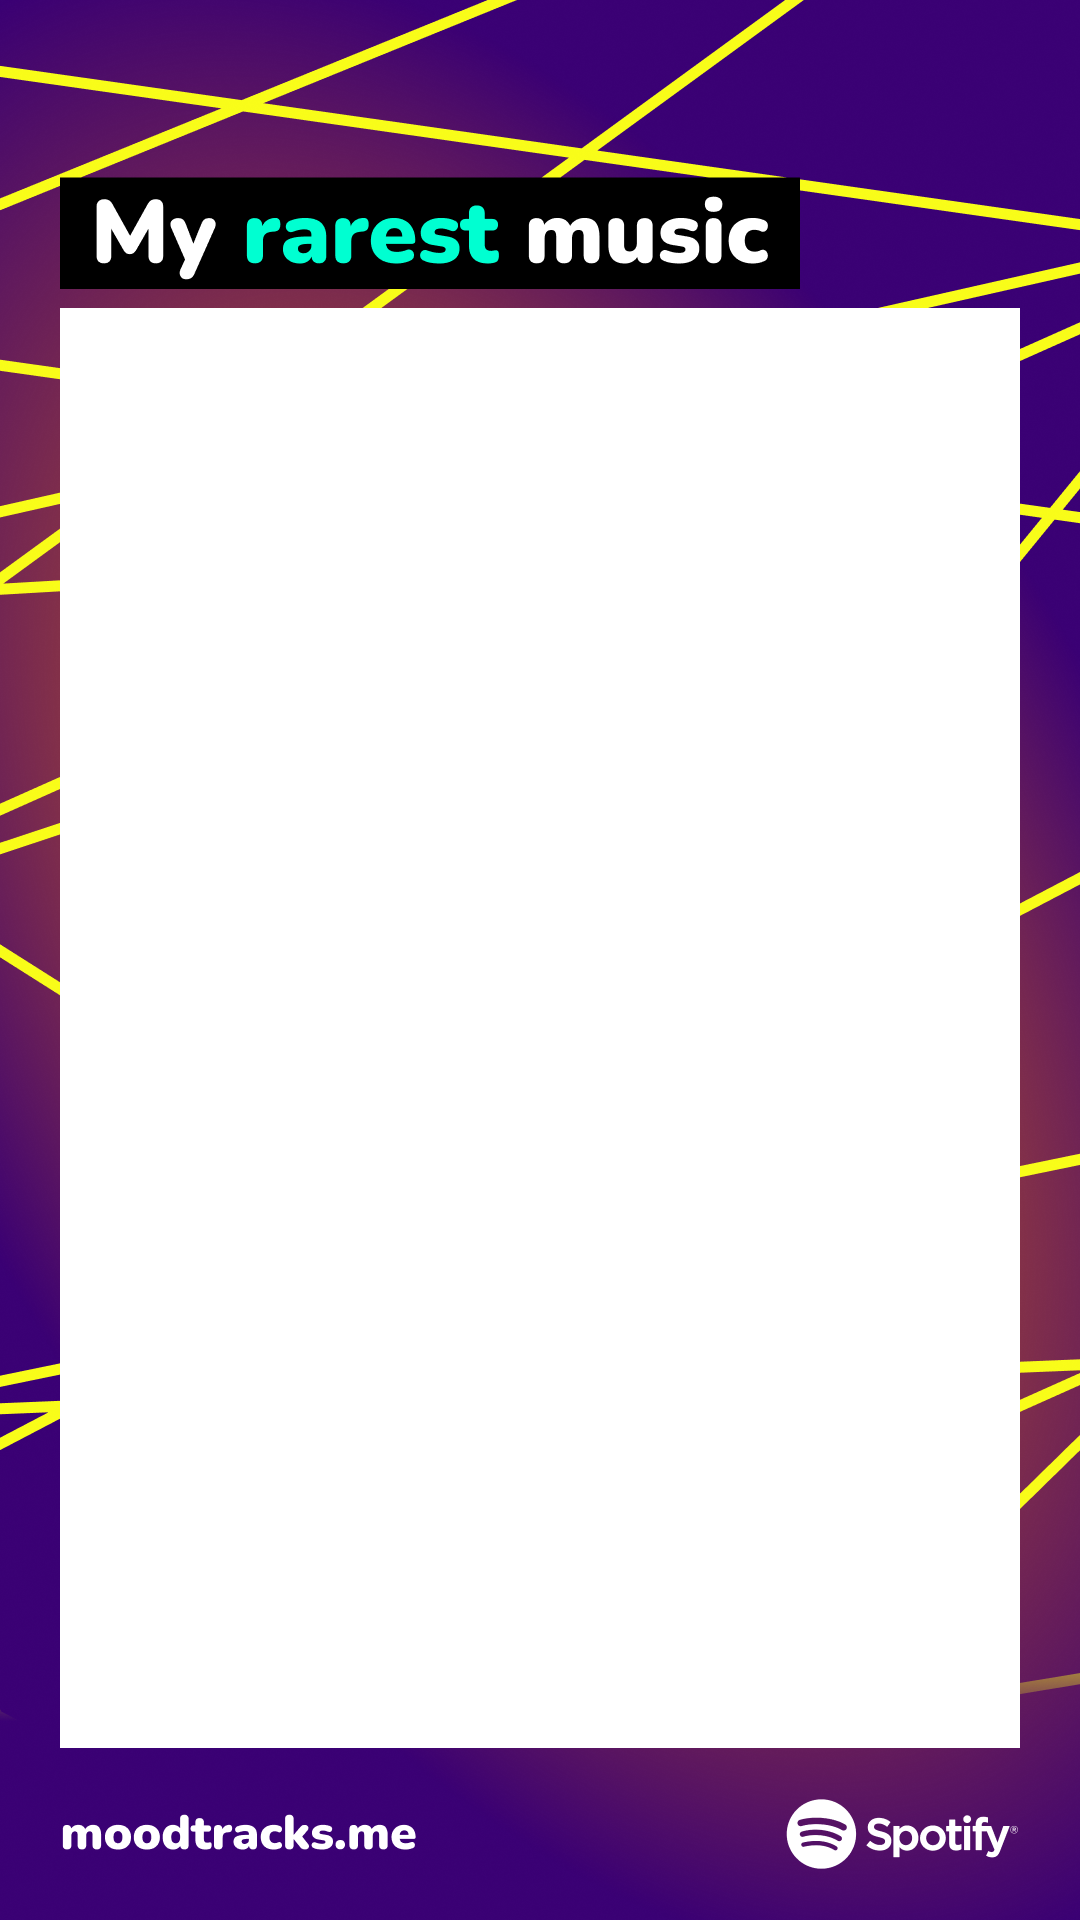
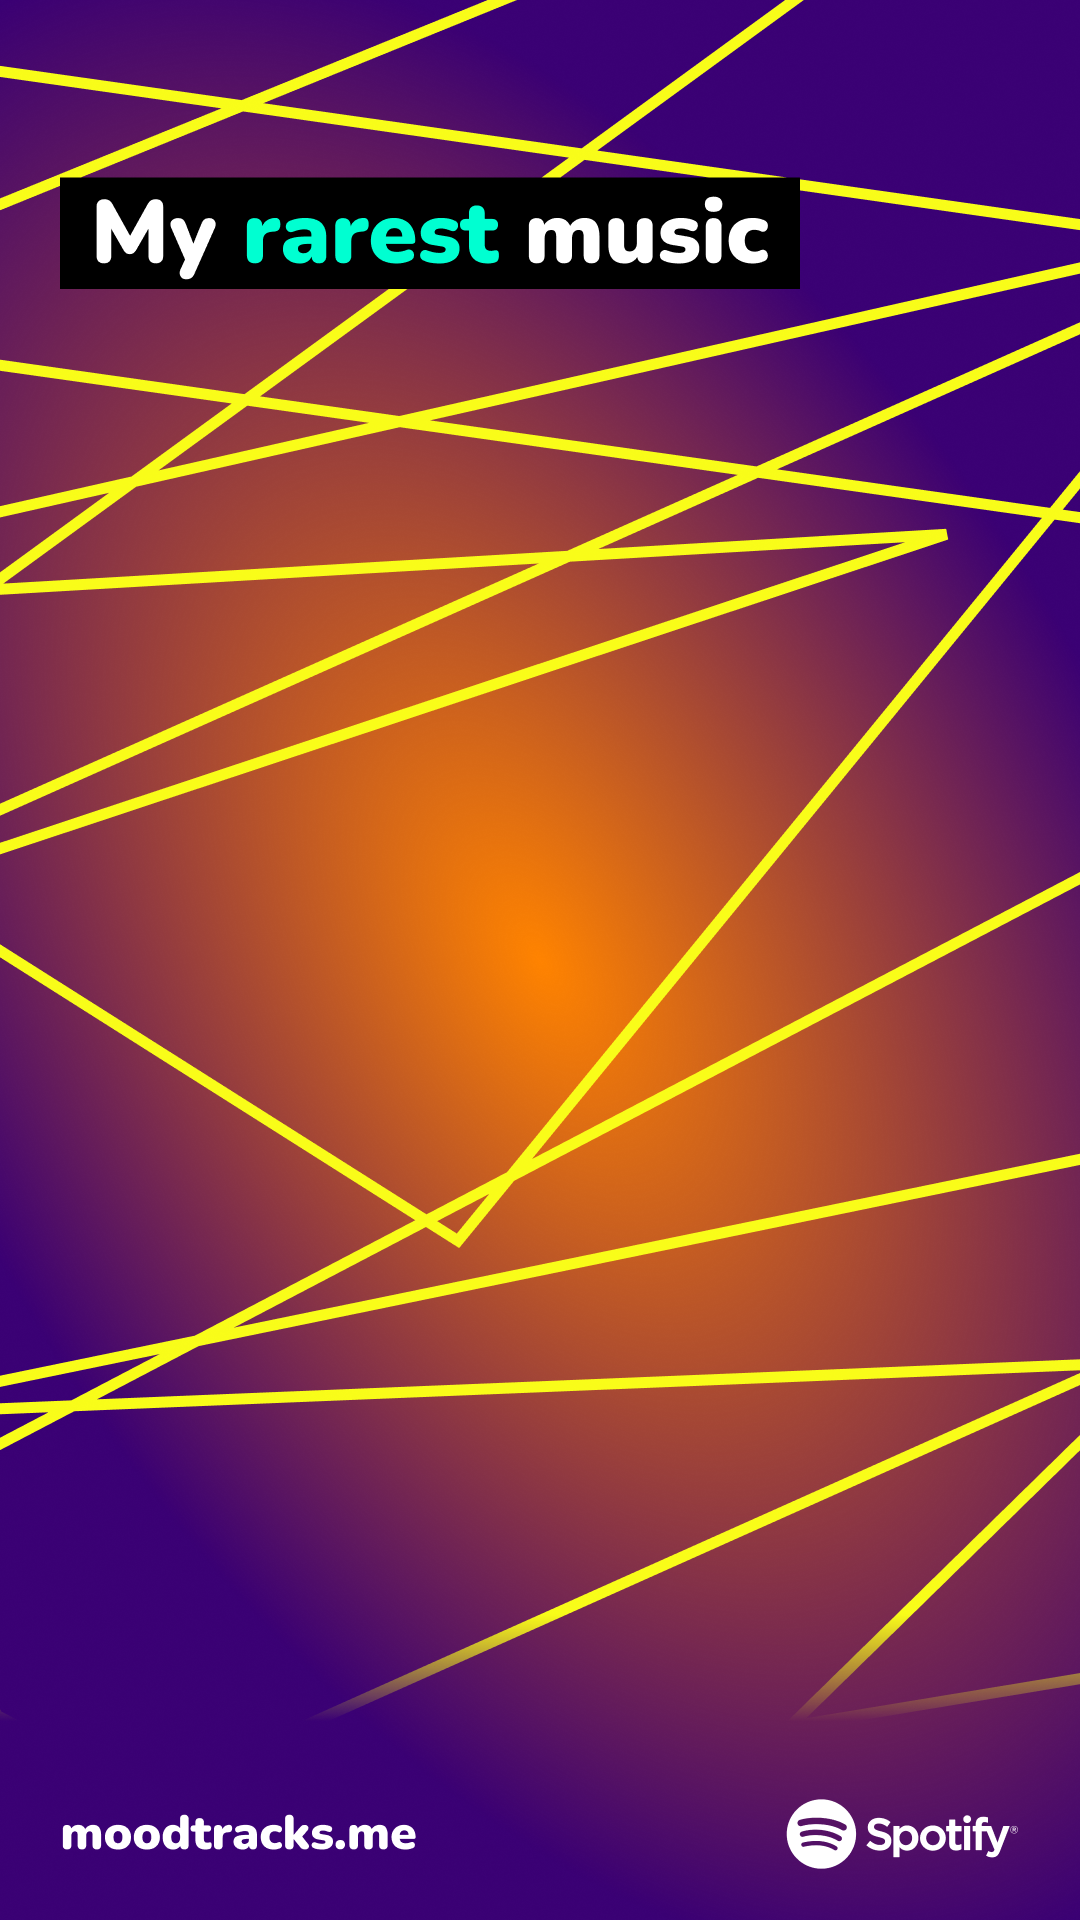
Added rough draft of moodtracks and rare tracks

diff --git a/scripts/script.js b/scripts/script.js
@@ -12,6 +12,11 @@ const urlParams = new URLSearchParams(window.location.search);
 let code = urlParams.get('code');
 
 
+var shortTermUserTracks;
+var mediumTermUserTracks;
+var longTermUserTracks;
+
+
 if (!code) {
     let codeVerifier = generateRandomString(128);
     generateCodeChallenge(codeVerifier).then(codeChallenge => {
@@ -65,13 +70,18 @@ else {
 
 
 
-    var shortTermUserTracks = await getUserTopTracks('short_term', trackLimit);
-    var mediumTermUserTracks = await getUserTopTracks('medium_term', trackLimit);
-    var longTermUserTracks = await getUserTopTracks('long_term', trackLimit);
+    shortTermUserTracks = await getUserTopTracks('short_term', trackLimit);
+    mediumTermUserTracks = await getUserTopTracks('medium_term', trackLimit);
+    longTermUserTracks = await getUserTopTracks('long_term', trackLimit);
 
-    populateTopTracks(shortTermUserTracks, "short");
-    //saveUserLibraryStartingFrom(0);
-    //console.log(fullUserTrackList);
+
+    await populateTopTracks(shortTermUserTracks, "short");
+    await populateMoodtracks(shortTermUserTracks);
+
+    var newArr = quickSort(await saveUserLibraryStartingFrom(0), 0, fullUserTrackList.length-1);
+
+    await populateRareTracks();
+    console.log(fullUserTrackList);
 }
 
 var shortTermButton = document.querySelector('#top-tracks-past-month-button');
@@ -156,7 +166,7 @@ async function getResponse(apiCall){
 async function saveUserLibraryStartingFrom(offset){
     var userLibrarySegment = await getResponse('https://api.spotify.com/v1/me/tracks?limit=50&offset='+offset);
 
-    for(var i = 0; i <= userLibrarySegment.items.length; i++){
+    for(var i = 0; i < userLibrarySegment.items.length; i++){
         fullUserTrackList.push(userLibrarySegment.items[i]);
     }
     console.log(userLibrarySegment.next);
@@ -206,14 +216,10 @@ async function populateTopTracks(userTopTrackData, timePeriod) {
         individualTrackData.appendChild(trackName);
         individualTrackData.appendChild(artistName);
 
-        trackList.appendChild(rankNumber)
+        trackList.appendChild(rankNumber);
         trackList.appendChild(individualTrackData);
     }
 }
-
-const largeArray = [
-    2,6,4,7
-];
 
 function quickSort(arr, first, last){
     if(first < last){
@@ -225,11 +231,11 @@ function quickSort(arr, first, last){
 
 function partition(arr, first, last){
     swap(arr, Math.floor(((last-first)/2) + first), last);
-    const pivotVal = arr[last];
+    const pivotVal = arr[last].track.popularity;
     var i = first-1;
 
     for(var j = first; j<last; j++){
-        if(arr[j] <= pivotVal){
+        if(arr[j].track.popularity <= pivotVal){
             i++;
             swap(arr, i, j);
         }
@@ -245,6 +251,122 @@ function swap(arr, i, j){
     arr[j] = tempVal;
 }
 
-console.log("Original Array:", largeArray);
-quickSort(largeArray, 0, largeArray.length-1);
-console.log("Sorted Array:", largeArray);
+
+async function populateRareTracks(){
+    var topThree = [];
+    var libraryIndex = 0;
+    var topThreeIndex = 0;
+
+    var img1 = document.getElementsByClassName("album-img1")[0];
+    var img2 = document.getElementsByClassName("album-img2")[0];
+    var img3 = document.getElementsByClassName("album-img3")[0];  
+
+    var track1 = document.getElementsByClassName("rare-track1")[0];
+    var track2 = document.getElementsByClassName("rare-track2")[0];
+    var track3 = document.getElementsByClassName("rare-track3")[0]; 
+
+    track1.innerHTML = "";
+    track2.innerHTML = ""; 
+    track3.innerHTML = "";
+
+    while(topThreeIndex < 3){
+        if(fullUserTrackList[libraryIndex].track.popularity > 0){
+            topThree.push(fullUserTrackList[libraryIndex]);
+            topThreeIndex++;
+        }
+        libraryIndex++;
+    }
+
+
+    for(var i = 0; i < topThree.length;i++){
+        var trackName = document.createElement("span");
+        var artistName = document.createElement("span");
+
+        artistName.classList.add("raretracks-artist");
+        trackName.classList.add("raretracks-track");
+
+
+        trackName.textContent = topThree[i].track.name;
+        artistName.textContent = topThree[i].track.artists[0].name;
+
+        if(i == 0){
+            track1.appendChild(trackName);
+            track1.appendChild(artistName);
+        }
+        if(i == 1){
+            track2.appendChild(trackName);
+            track2.appendChild(artistName);
+        }
+        if(i == 2){
+            track3.appendChild(trackName);
+            track3.appendChild(artistName);
+        }
+    }
+
+    img1.setAttribute("src", topThree[0].track.album.images[0].url);
+    img2.setAttribute("src", topThree[1].track.album.images[1].url);
+    img3.setAttribute("src", topThree[2].track.album.images[2].url);
+}
+
+async function populateMoodtracks(tracksToSort){
+    //traverse tracks to sort
+    //sort tracks based on their +valence
+    //sort tracks based on their -valence
+    //sort tracks based on their +energy
+
+
+    var happyGrid = document.getElementById("moodtracks-happy-grid");
+    var tenderGrid = document.getElementById("moodtracks-tender-grid");
+    var energeticGrid = document.getElementById("moodtracks-energetic-grid");
+
+    var moodtracksSectors = [happyGrid,tenderGrid,energeticGrid];
+
+    for(var i =0; i< 3; i++){
+        for(var j = 0; j<3;j++){
+            var trackNameSpan = document.createElement("span");
+            var artistNameSpan = document.createElement("span");
+            trackNameSpan.setAttribute("id", "moodtracks-artist");
+            artistNameSpan.setAttribute("id", "moodtracks-artist");
+
+            var trackInfoDiv = document.createElement("div");
+            var albumImg = document.createElement("img");
+            albumImg.classList.add("moodtracks-album-img");
+
+
+
+            var trackName = tracksToSort.items[j].name;
+            var artistName = tracksToSort.items[j].artists[0].name;
+            var albumURL = tracksToSort.items[j].album.images[0].url;
+
+            trackNameSpan.textContent = trackName;
+            artistNameSpan.textContent=artistName;
+            albumImg.setAttribute("src", albumURL);
+
+
+
+            trackInfoDiv.appendChild(trackNameSpan);
+            trackInfoDiv.appendChild(artistNameSpan);
+
+
+            if(i==1){
+                moodtracksSectors[i].appendChild(albumImg);
+                moodtracksSectors[i].appendChild(trackInfoDiv);
+            }
+            else{
+                moodtracksSectors[i].appendChild(trackInfoDiv);
+                moodtracksSectors[i].appendChild(albumImg);
+            }
+        }
+    }
+
+
+    //get and set artistName to a span with id moodtracks-artist
+    //get and set trackName to a span with id moodtracks-artist
+    //create a div called "trackInfo" append artistName and trackName
+    //create an img element wit class "moodtracks-album-img"
+    //create a new div called "trackRow" append trackInfo or img depending on i
+    
+
+    //append trackRow to respective div
+
+}

diff --git a/yourmoodtracks.html b/yourmoodtracks.html
@@ -21,11 +21,11 @@
 
     <link rel="stylesheet" href="styles/nav_styles.css">
     <link rel="stylesheet" href="styles/home_styles.css">
-    <link rel="stylesheet" href="styles/moodtracks_images.css">
+    <link rel="stylesheet" href="styles/moodtracks_cards.css">
     
     <link rel="preconnect" href="https://fonts.googleapis.com">
     <link rel="preconnect" href="https://fonts.gstatic.com" crossorigin>
-    <link href="https://fonts.googleapis.com/css2?family=Nunito:wght@900&display=swap" rel="stylesheet">
+    <link href="https://fonts.googleapis.com/css2?family=Nunito:ital,wght@0,800;0,900;1,700&display=swap" rel="stylesheet">
 </head>
 
 <body>
@@ -81,15 +81,47 @@
             <div class="downloadable-story">
                 <img src="/resources/img/raretracks-blanktemplate.png" alt="Background for story for top tracks">
                 <div class="story-text-overlay">
-                    <div id="rare-tracks-story-grid">Hello my friend</div> 
+                    <div id="rare-tracks-story-grid">
+                        <img class="album-img1" src="">
+                        <span class="rare-track1"></span>
+                        <span class="rare-track2">Fetching and scanning your Spotify library, please wait!</span>
+                        <img class="album-img2" src="">
+                        <img class="album-img3" src="">
+                        <span class="rare-track3"></span>
+
+                    </div> 
                 </div>
             </div>
             <div class = "card-options">
-                <span id="card-options-title">time period</span>
+                <span id="card-options-title"></span>
                 <div class="card-options-buttons">
-                    <button class="selected-top-tracks-option" id="top-tracks-past-month-button">Month</button>
-                    <button id="top-tracks-past-six-months-button">6 Months</button>
-                    <button id="top-tracks-all-time-button">All Time</button>
+                    <button class="selected-rare-tracks-option" id="rare-tracks-past-month-button">Get New List</button>
+                </div>
+            </div>
+            <button class="download-image-button">Download Image</button>
+        </div>
+
+        <div class="track-info-card moodtracks-card">
+            <span class="card-title">moodtracks.</span>
+            <span class="card-description">
+                Have you wondered how your top songs are sorted, moodwise? These are your top three for each mood! (More moods coming soon!)
+            </span>
+            <div class="downloadable-story">
+                <img src="/resources/img/moodtracks-blankTemplate.png" alt="Background for story for top tracks">
+                <div class="story-text-overlay">
+                    <div id="moodtracks-story-grid">
+                        <div id="moodtracks-happy-grid"></div>
+                        <div id="moodtracks-tender-grid"></div>
+                        <div id="moodtracks-energetic-grid"></div>
+                    </div> 
+                </div>
+            </div>
+            <div class = "card-options">
+                <span id="card-options-title"></span>
+                <div class="card-options-buttons">
+                    <button class="selected-moodtracks-option" id="moodtracks-past-month-button">Month</button>
+                    <button id="moodtracks-past-six-months-button">6 Months</button>
+                    <button id="moodtracks-all-time-button">All Time</button>
                 </div>
             </div>
             <button class="download-image-button">Download Image</button>

diff --git a/styles/moodtracks_cards.css b/styles/moodtracks_cards.css
@@ -22,6 +22,10 @@
     background-color: aqua;
 }
 
+.moodtracks-card{
+    background-color: rgb(255, 93, 93);
+}
+
 .card-title {
     align-self: flex-start;
     font-size: 2.5rem;
@@ -152,10 +156,94 @@
 
 
 #rare-tracks-story-grid{
-    width: 100%;
-    height: 100%;
+    display: grid;
+    grid-template-columns: 133px 133px;
     margin-left: 17px;
     margin-top: 85px;
     margin-bottom: 48px;
-    margin-right: 0px;
+    margin-right: 16px;
+    background-color: white;
+}
+
+.album-img1 .album-img2 .album-img3{
+    width: 133.3px;
+    height: 133.3px;
+}
+
+.rare-track1, .rare-track2, .rare-track3 {
+    display: flex;
+    flex-direction: column;
+    justify-content: center;
+    align-items:center;
+    margin: 12px;
+}
+
+.raretracks-artist{
+    font-weight:800;
+    font-style: italic;
+    text-align: center;
+    text-decoration: underline;
+}
+
+.raretracks-track{
+    font-weight:800;
+    text-align: center;
+}
+
+
+
+#moodtracks-story-grid{
+    display: flex;
+    flex-direction: column;
+}
+
+#moodtracks-happy-grid{
+    display: grid;
+    grid-template-columns: 133px 133px;
+    margin-left: 17px;
+    margin-top: 85px;
+    margin-bottom: 48px;
+    margin-right: 16px;
+    background-color: white;
+}
+
+#moodtracks-tender-grid{
+    display: grid;
+    grid-template-columns: 133px 133px;
+    margin-left: 17px;
+    margin-top: 85px;
+    margin-bottom: 48px;
+    margin-right: 16px;
+    background-color: white;
+}
+
+#moodtracks-energetic-grid{
+    display: grid;
+    grid-template-columns: 133px 133px;
+    margin-left: 17px;
+    margin-top: 85px;
+    margin-bottom: 48px;
+    margin-right: 16px;
+    background-color: white;
+}
+
+.moodtracks-album-img {
+    width: 165px;
+    height: 165px;
+}
+
+.moodtracks-track{
+    font-weight:800;
+    text-align: left;
+}
+
+.moodtracks-track-info{
+
+}
+
+.moodtracks-artist{
+    font-weight:800;
+    font-style: italic;
+    text-align: center;
+    text-decoration: underline;
 }

diff --git a/styles/nav_styles.css b/styles/nav_styles.css
@@ -2,6 +2,7 @@ body {
     font-family: Nunito, sans-serif;
     margin-left: 1em;
     margin-right: 1em;
+    font-weight: 900;
 }
 
 .navbar{
